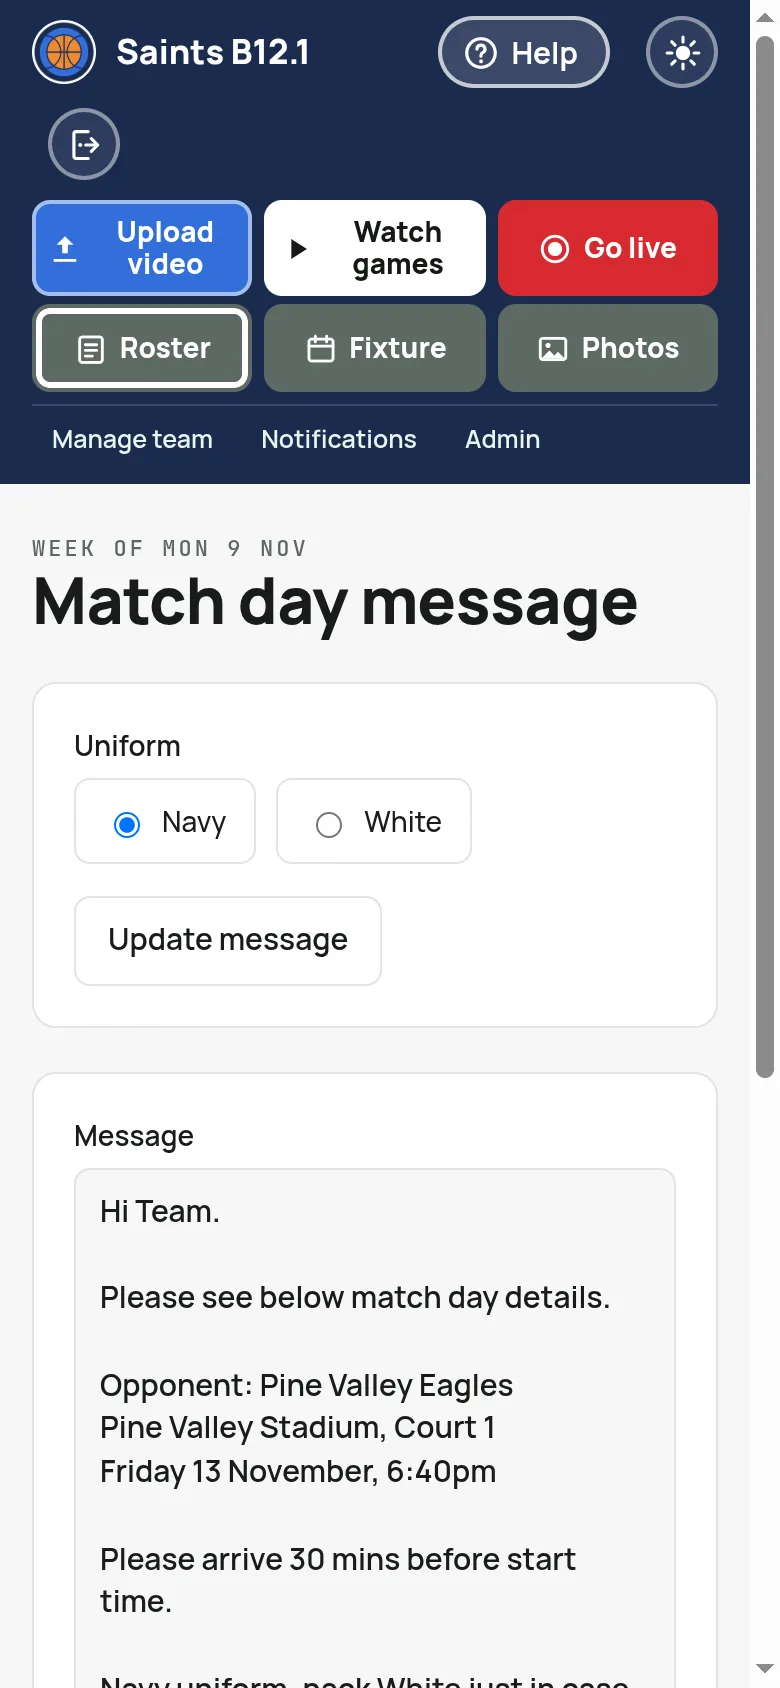
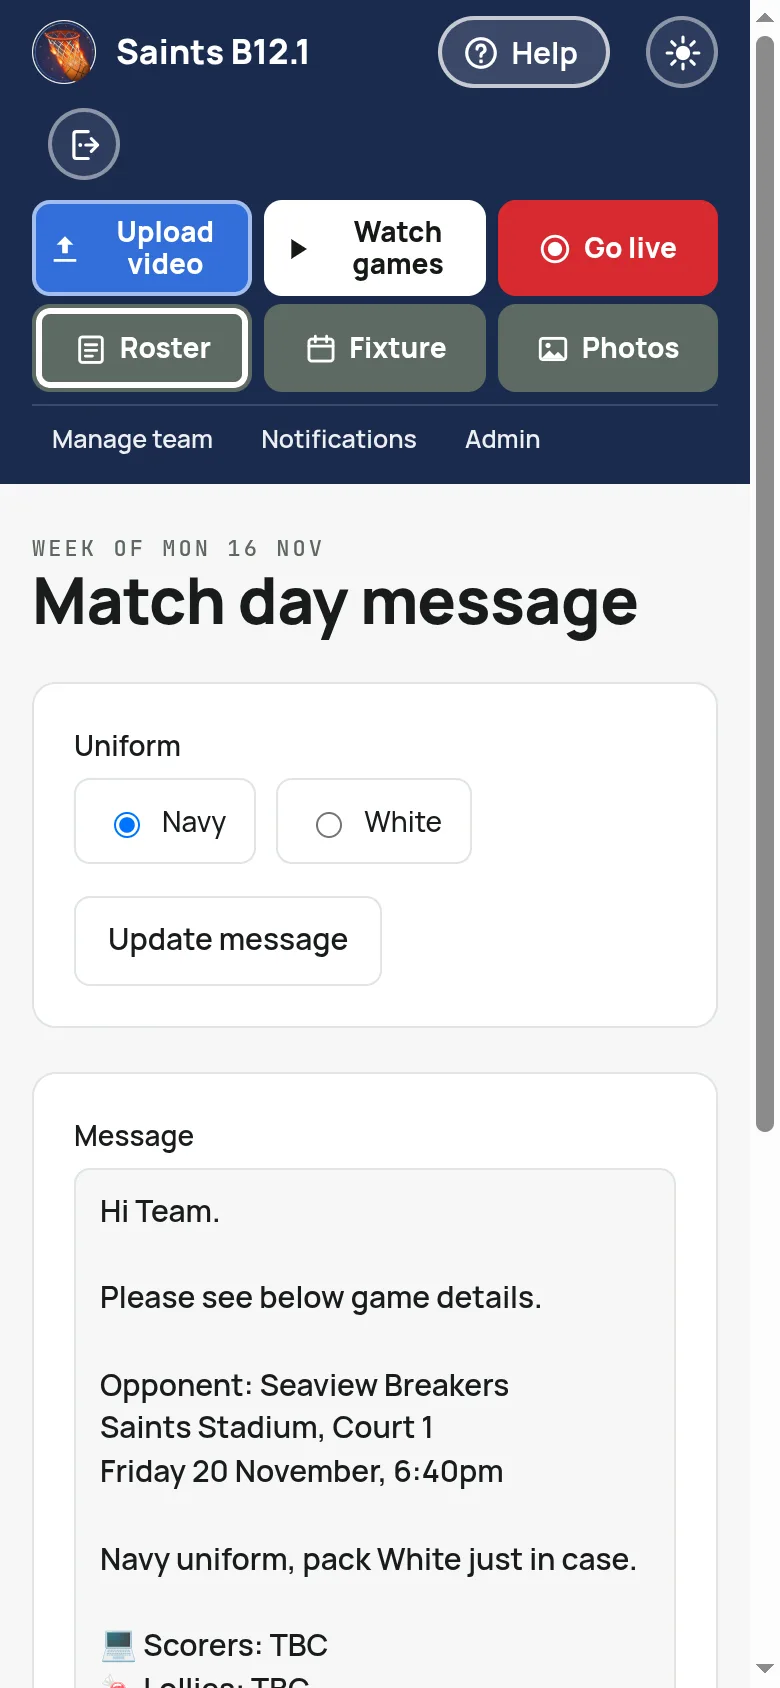
WhatsApp message: "game details", not "match day details", and no arrival time
The message no longer says match day or asks families to arrive 30 minutes early. The Documentation, the spec and Help's screenshot say the same.

diff --git a/src/features/roster/match-message.ts b/src/features/roster/match-message.ts
@@ -4,8 +4,8 @@ import type { Game } from "../games/games-repository.ts";
 import { ALL_DUTIES, type RosterDuties } from "./roster-duties.ts";
 import type { Slot } from "./roster-plan.ts";
 
-// The match day message for the team's WhatsApp chat, one for each game: the opponent, the venue and when, arrive 30
-// minutes early, which of the club's uniforms to wear (packing the other, the clash uniform, when the club has more
+// The match day message for the team's WhatsApp chat, one for each game: the game details (the opponent, the venue
+// and when), which of the club's uniforms to wear (packing the other, the clash uniform, when the club has more
 // than one), and who's on duty, with the family on video told how to film it on the site.
 
 /** One of CLUB.uniforms, as written there. */
@@ -43,8 +43,8 @@ export function matchMessage(o: { site: string; game: Game; slots: Slot[]; names
 		...(o.video && !g.noVideo && duties.video ? [`🎥 Video: ${who("video")} (${filming})`] : []),
 	];
 	return [
-		"Hi Team.", "Please see below match day details.", [`Opponent: ${known(g.opponent) || "TBC"}`, known(g.venue) || "Venue TBC", longDate(g.startsAt)].join("\n"),
-		"Please arrive 30 mins before start time.", uniformLine(o.uniform),
+		"Hi Team.", "Please see below game details.", [`Opponent: ${known(g.opponent) || "TBC"}`, known(g.venue) || "Venue TBC", longDate(g.startsAt)].join("\n"),
+		uniformLine(o.uniform),
 		duty.join("\n"),
 	].join("\n\n");
 }

diff --git a/src/features/admin/views/docs-text-roster.ts b/src/features/admin/views/docs-text-roster.ts
@@ -68,7 +68,7 @@ fold the rest, as a season runs to 40 weeks or more.</li>
 <li><b>Roster fairness:</b> a plain verdict ("Fair", or "Not even yet" when families are more than one apart, which
 tells the team manager to Generate roster), each family's count of each duty with its total and its time off, and a
 week-by-week chart of who was on.</li>
-<li><b>The WhatsApp message</b> (team managers, one a game): the opponent, the venue and when, arrive 30 minutes early,
+<li><b>The WhatsApp message</b> (team managers, one a game): the game details (the opponent, the venue and when),
 the uniform (one of the club's, from src/club.ts, packing the other as the clash uniform when the club has more than one; a club with a reversible singlet has no choice to make) and who's on each duty, with Copy and Open WhatsApp. The team manager can change it in the box first; both send it as it stands (public/match-message.js), and it isn't saved: Update message makes it again from the roster.</li>
 <li><b>Export to Excel</b> (everyone but Watch only): the season as an .xlsx, a row a week and a line a game.</li></ul>
 ${table(["Table", "Holds"], [

diff --git a/tests/features/roster/match-message.test.ts b/tests/features/roster/match-message.test.ts
@@ -44,17 +44,15 @@ describe("match day message", () => {
 		expect(html).toContain('<script type="module" src="/match-message.js"></script>');
 		expect(html).toContain("Change anything in the message before you copy or send it. Update message starts it again from the roster.");
 	});
-	it("is laid out like a team's WhatsApp match-day message", () => {
+	it("is laid out like a team's WhatsApp message: the game details, then the uniform, with no arrival time", () => {
 		expect(longDate("2026-10-23T18:30")).toBe("Friday 23 October, 6:30pm");
 		expect(matchMessage({ site: "https://saints.example", game: game({}), slots, names, video: true, uniform: "White" })).toBe(`Hi Team.
 
-Please see below match day details.
+Please see below game details.
 
 Opponent: Northside 2
 Saints Stadium Court 1
 Friday 23 October, 6:30pm
-
-Please arrive 30 mins before start time.
 
 White uniform, pack Navy just in case.
 

diff --git a/docs/admin/10-the-roster.md b/docs/admin/10-the-roster.md
@@ -46,7 +46,7 @@ The Roster says which family does which game-day duty. Every member sees it; the
 - **Your duty:** a member whose last name matches a family sees that family's next duty.
 - **The weeks:** each week's games and who's on each duty. The next six weeks show; Earlier weeks and Later weeks fold the rest, as a season runs to 40 weeks or more.
 - **Roster fairness:** a plain verdict ("Fair", or "Not even yet" when families are more than one apart, which tells the team manager to Generate roster), each family's count of each duty with its total and its time off, and a week-by-week chart of who was on.
-- **The WhatsApp message** (team managers, one a game): the opponent, the venue and when, arrive 30 minutes early, the uniform (one of the club's, from src/club.ts, packing the other as the clash uniform when the club has more than one; a club with a reversible singlet has no choice to make) and who's on each duty, with Copy and Open WhatsApp. The team manager can change it in the box first; both send it as it stands (public/match-message.js), and it isn't saved: Update message makes it again from the roster.
+- **The WhatsApp message** (team managers, one a game): the game details (the opponent, the venue and when), the uniform (one of the club's, from src/club.ts, packing the other as the clash uniform when the club has more than one; a club with a reversible singlet has no choice to make) and who's on each duty, with Copy and Open WhatsApp. The team manager can change it in the box first; both send it as it stands (public/match-message.js), and it isn't saved: Update message makes it again from the roster.
 - **Export to Excel** (everyone but Watch only): the season as an .xlsx, a row a week and a line a game.
 
 | Table | Holds |

diff --git a/CHANGELOG.md b/CHANGELOG.md
@@ -10,6 +10,7 @@ Builds) sends the top line, in plain words, as its message.
 
 ## 18 Nov 2026
 
+- [Enhancement] **Roster:** The WhatsApp message now says "Please see below game details" rather than match day details, and no longer asks families to arrive 30 minutes early.
 - [Feature] **Cloudflare setup:** A club that manages its Cloudflare account with Terraform can now apply the site's setup that way (npm run terraform), from the same files as the cf commands, with a plan the owner reads before each apply and a way to take over an install cf made.
 - [Fix] **Documentation:** Fixed an issue where the Documentation said a join never encodes anything again: the parts are copied as they are, and encoded again only as a fallback when they don't line up. The request diagram now starts with the check that a request came to the site's own address.
 - [Enhancement] **Video joiner:** Building the joiner's image (npm run join -- image) now runs it with no network before pushing it, and pushes it only once its ffmpeg is the pinned version and its own self-test joins.

diff --git a/docs/spec.md b/docs/spec.md
@@ -363,7 +363,7 @@ families scoring, one on lollies and one on video. There's no video duty when ev
  names, slides sideways on a narrow screen and opens at this week (`public/roster.js`). Percentage rings and duty-mix
  bars were tried and dropped.
 - **The WhatsApp message**:
- the match day message for the team chat in the site owner's layout ("Opponent: …", the venue and time, arrive 30 minutes early, and the uniform, from the club's list in
+ the match day message for the team chat in the site owner's layout ("Please see below game details.", then "Opponent: …", the venue and time, and the uniform, from the club's list in
  `src/club.ts`: chosen each time when there's more than one, packing the other, the clash uniform, "Navy uniform, pack
  White just in case."; a club with one kit or a reversible singlet gets "Uniform: Reversible singlet." and no choice), then 💻 Scorers, 🍬 Lollies and 🎥 Video
  from the roster, with **Copy** and **Open WhatsApp**.
